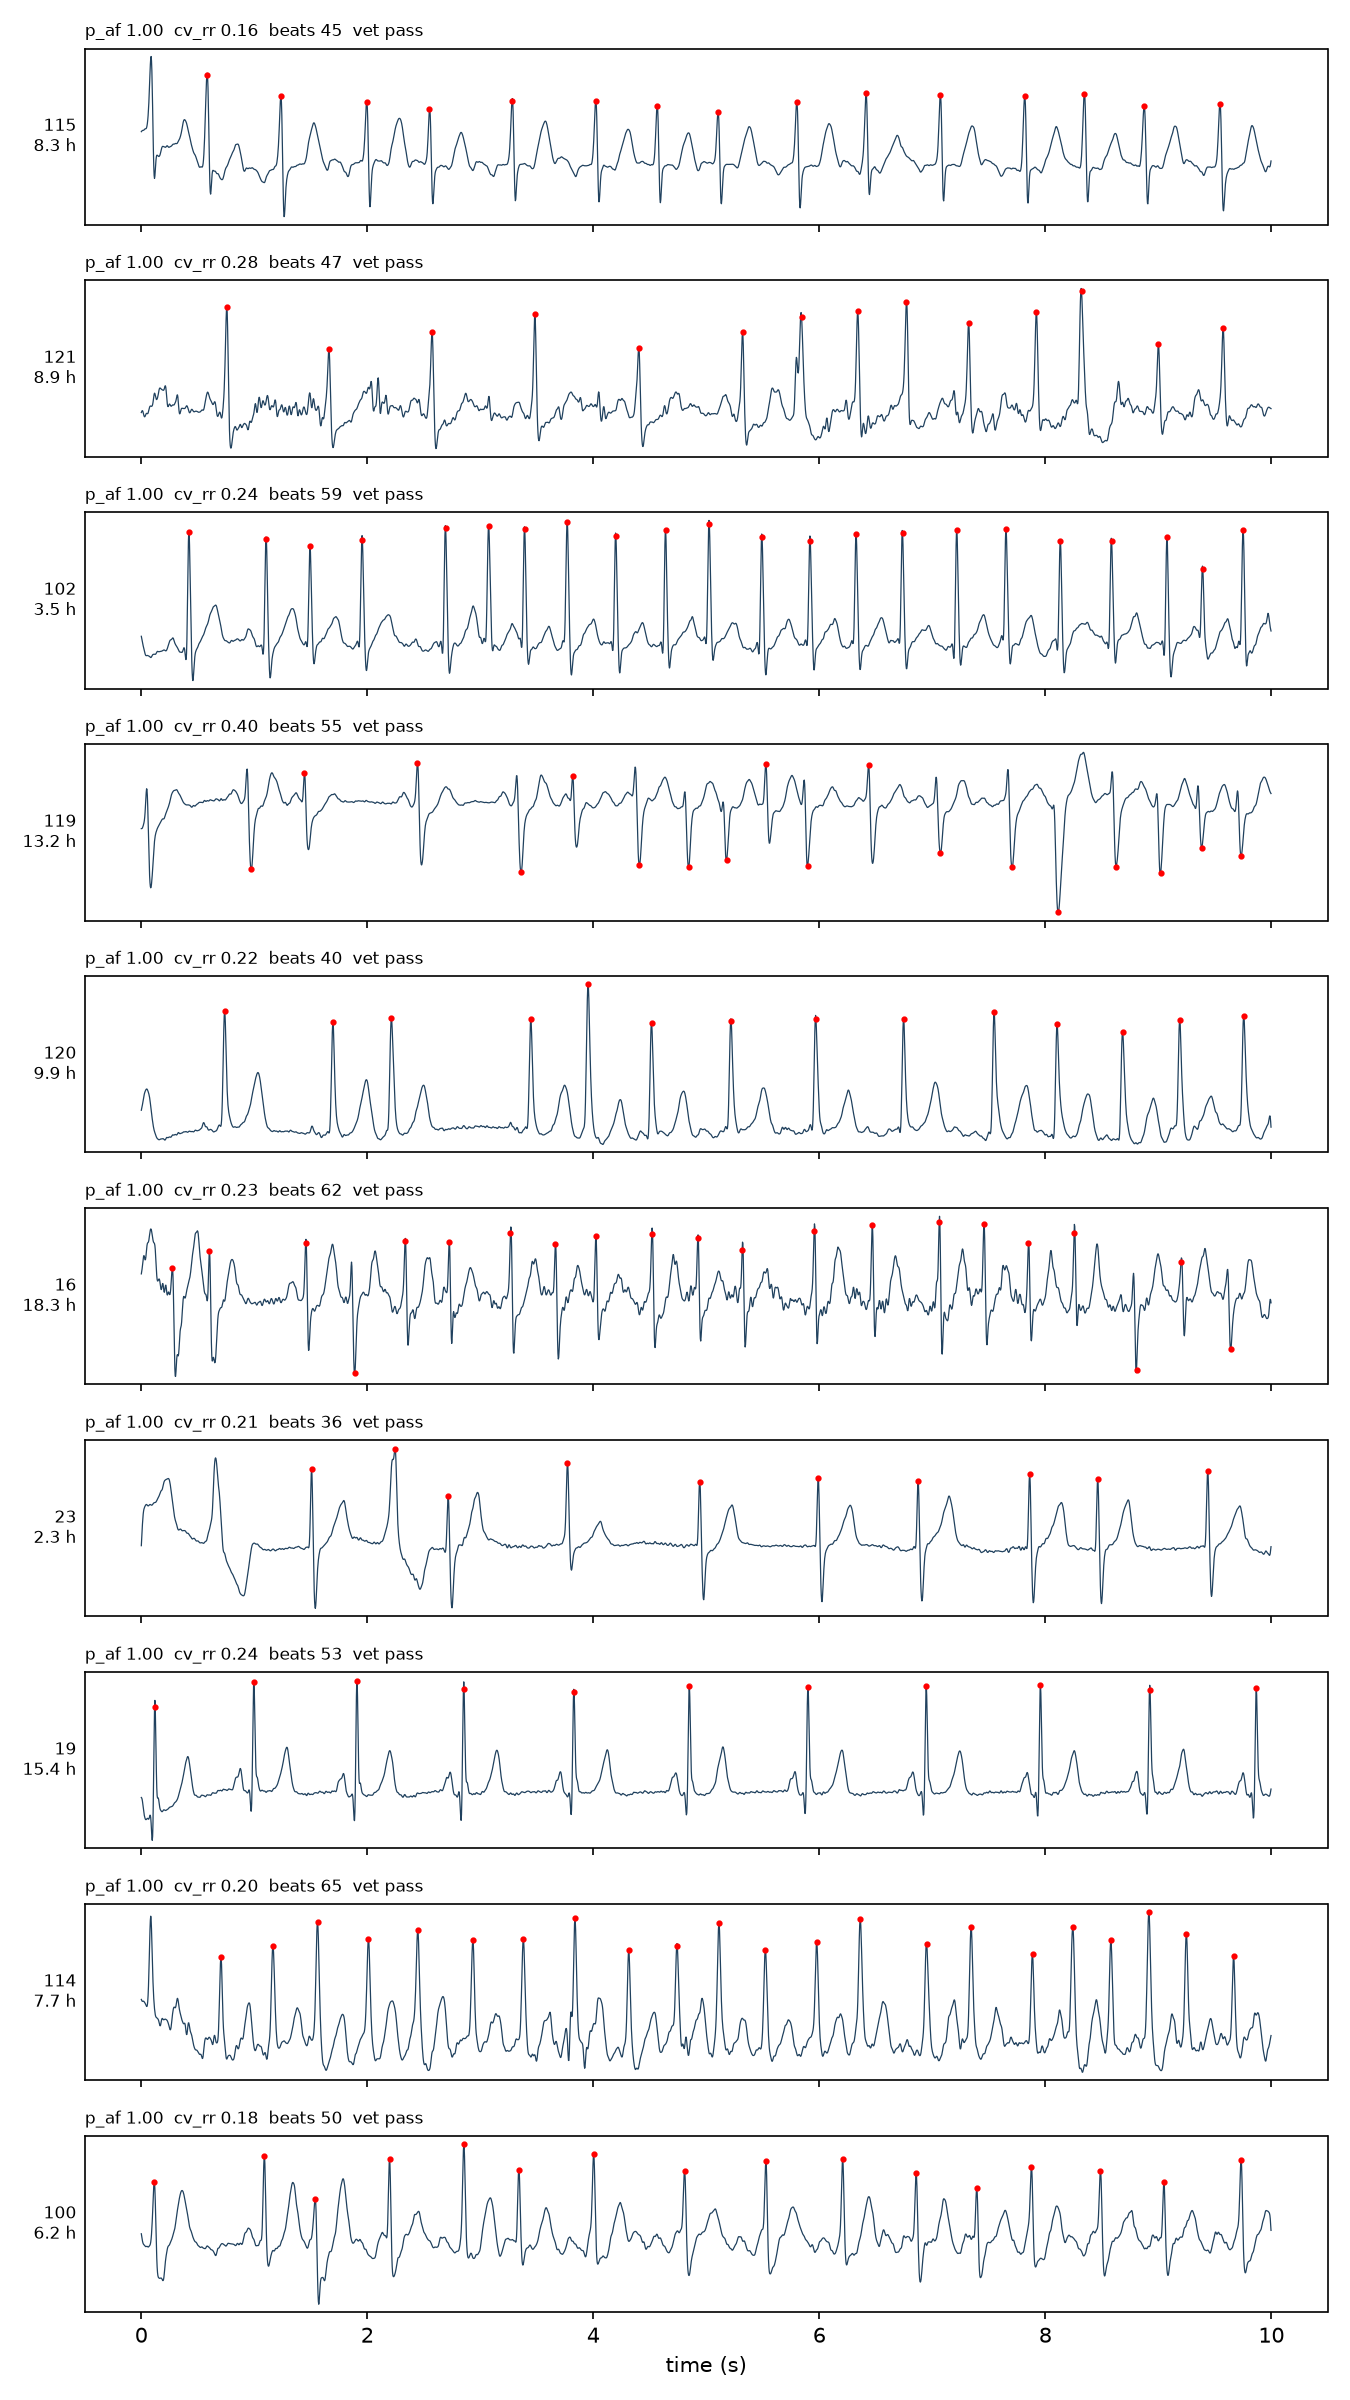
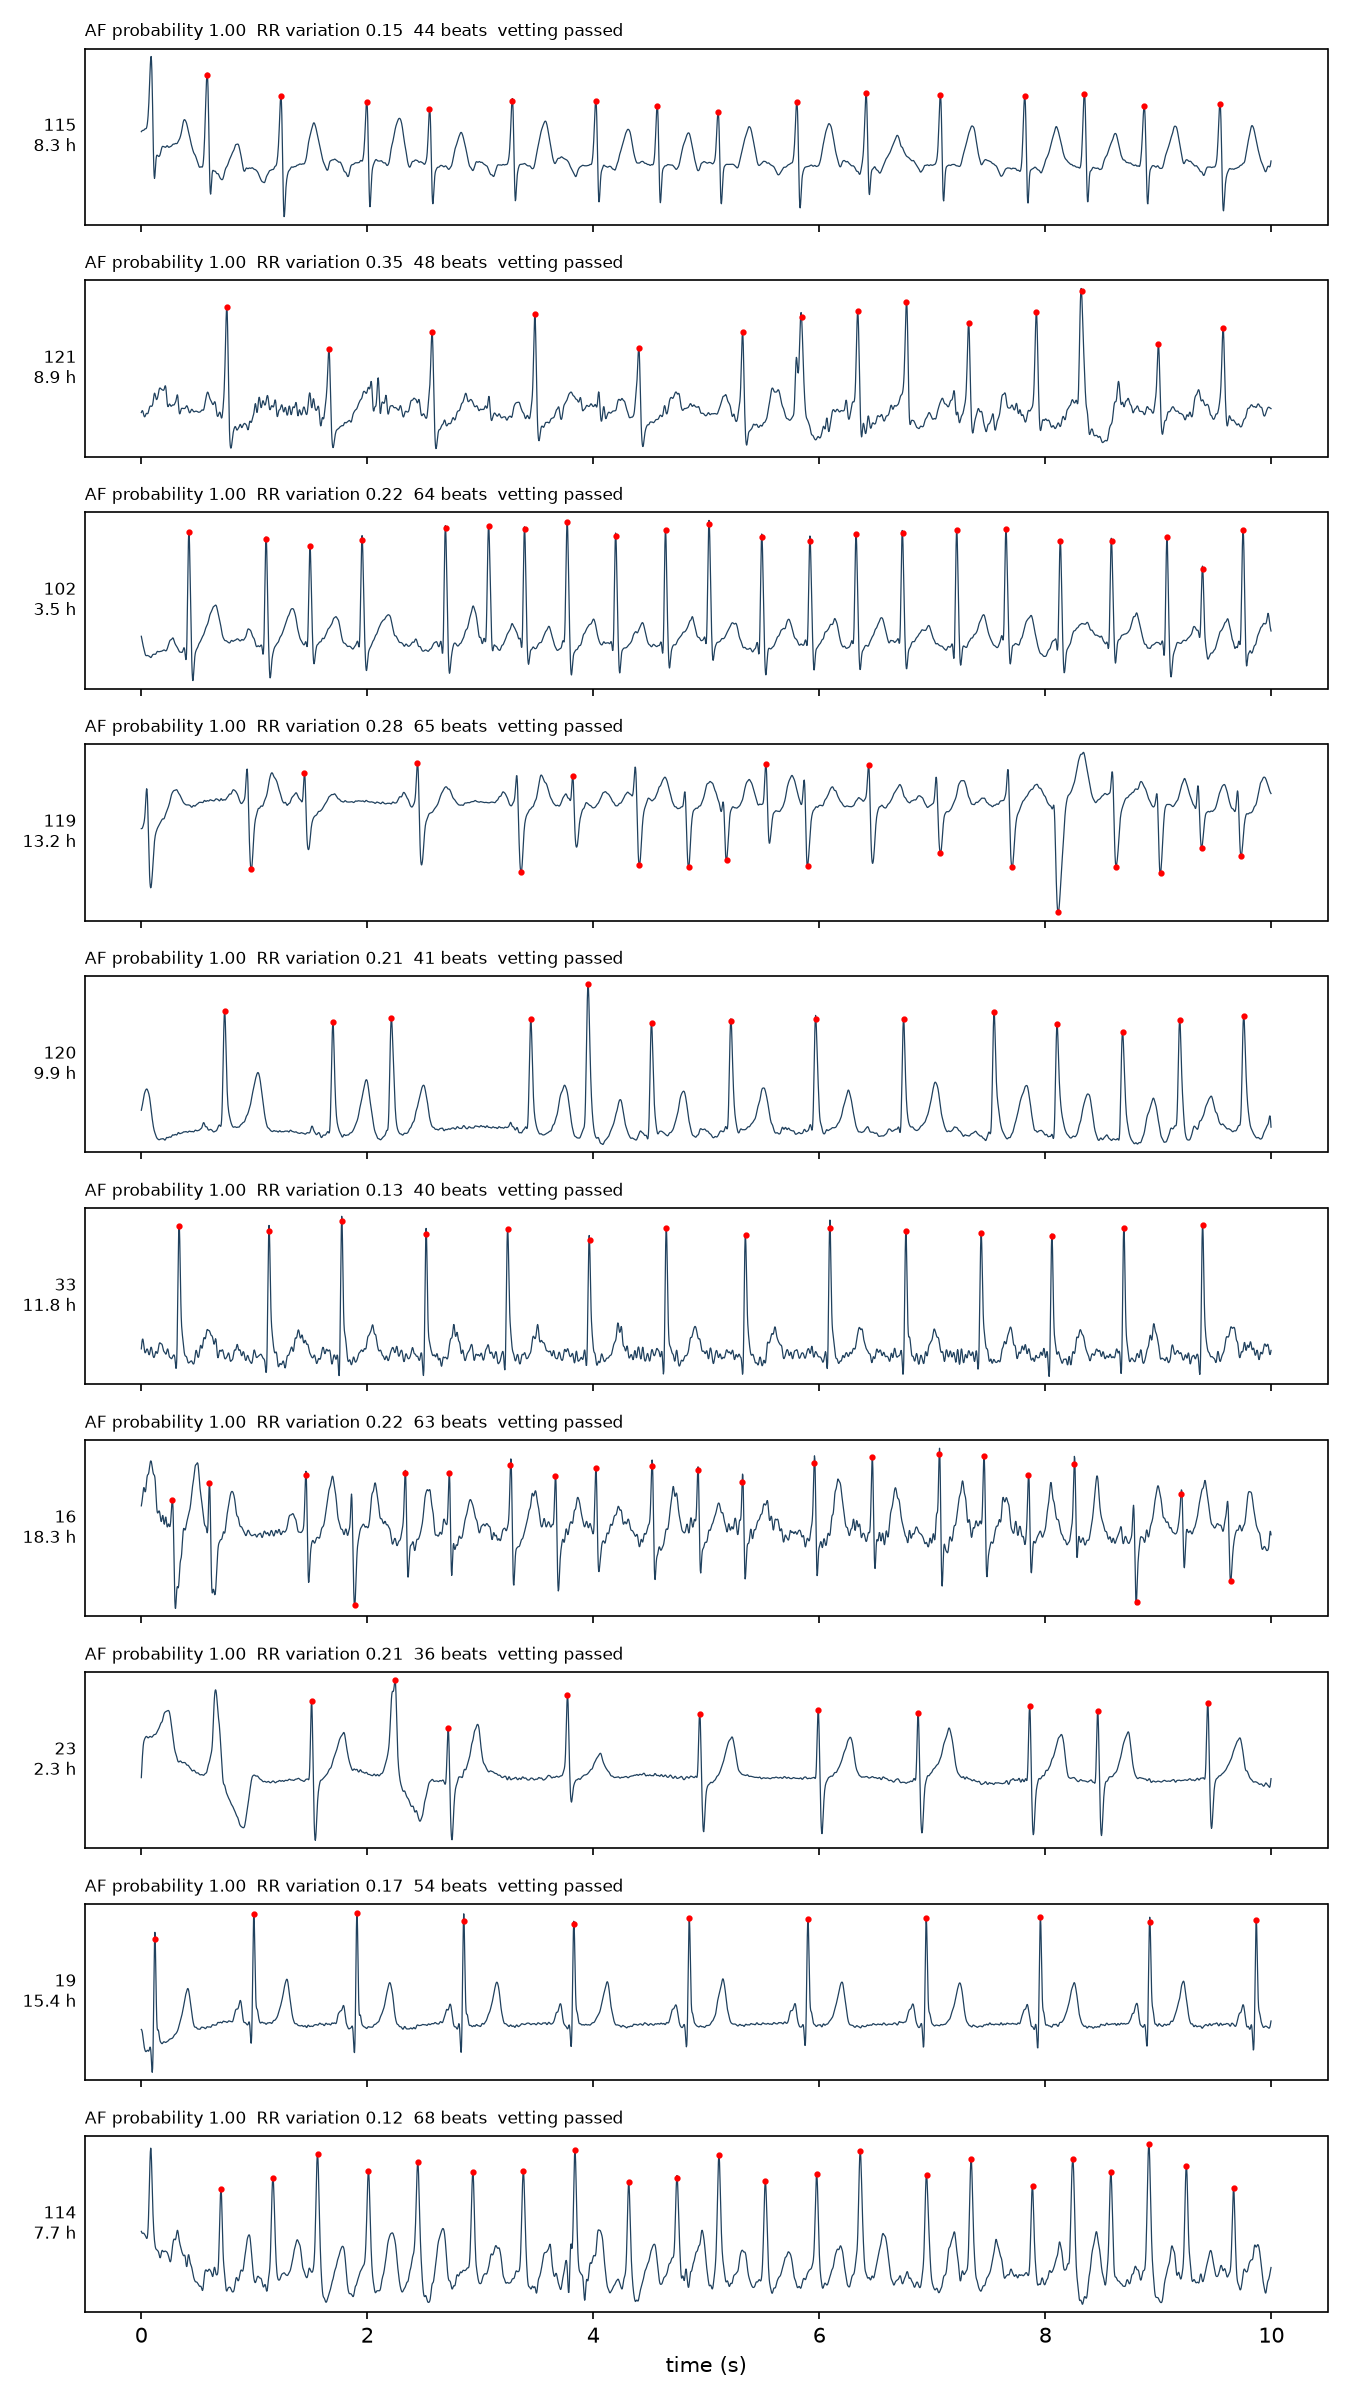
add rr-feature baseline and rework docs from cold review
Logistic regression over the pipeline's own vetting features scores 0.547
under the identical protocol, anchoring the network's 0.827. Screening
results become a table with refreshed post-fix numbers, the vetting
threshold is justified by sampled CV(RR) distributions instead of one
example pair, and the neutralized amplitude augmentation is documented.

diff --git a/scripts/baseline_rr.py b/scripts/baseline_rr.py
@@ -1,0 +1,73 @@
+"""RR-interval and signal-quality baseline: logistic regression under the CV protocol.
+
+Anchors the CNN score by measuring how far the hand-built screening features
+(beat rate, RR irregularity, spectral quality) get on the same task, same
+folds, same metric.
+"""
+
+import time
+from pathlib import Path
+
+import numpy as np
+import pandas as pd
+from sklearn.linear_model import LogisticRegression
+from sklearn.model_selection import StratifiedKFold
+from sklearn.pipeline import make_pipeline
+from sklearn.preprocessing import StandardScaler
+
+from heartscreen.data import CachedDataset
+from heartscreen.evaluate import challenge_f1
+from heartscreen.preprocessing import FS
+from heartscreen.screening import rr_metrics, window_sqi
+
+CACHE = Path("results/baseline/features.csv")
+
+
+def extract_features(dataset: CachedDataset) -> pd.DataFrame:
+    rows = []
+    for i in range(len(dataset)):
+        signal = dataset.signal(i)
+        rr = rr_metrics(signal)
+        sqi = window_sqi(signal)
+        rows.append(
+            {
+                "beats_per_s": rr["beats"] / (len(signal) / FS),
+                "cv_rr": rr["cv_rr"],
+                "rmssd_ms": rr["rmssd_ms"],
+                "flatline_frac": sqi["flatline_frac"],
+                "qrs_band_ratio": sqi["qrs_band_ratio"],
+                "label": int(dataset.labels[i]),
+            }
+        )
+    return pd.DataFrame(rows)
+
+
+def main() -> None:
+    dataset = CachedDataset("data/cache/cinc2017.npz")
+    if CACHE.exists():
+        features = pd.read_csv(CACHE)
+    else:
+        start = time.perf_counter()
+        features = extract_features(dataset)
+        CACHE.parent.mkdir(parents=True, exist_ok=True)
+        features.to_csv(CACHE, index=False)
+        print(f"features extracted in {time.perf_counter() - start:.0f}s")
+
+    x = features.drop(columns="label").fillna(0.0).to_numpy()
+    y = features["label"].to_numpy()
+    model = make_pipeline(
+        StandardScaler(),
+        LogisticRegression(class_weight="balanced", max_iter=1000, random_state=42),
+    )
+    skf = StratifiedKFold(n_splits=5, shuffle=True, random_state=42)
+    scores = []
+    for train, val in skf.split(x, y):
+        model.fit(x[train], y[train])
+        score, per_class = challenge_f1(y[val], model.predict(x[val]))
+        scores.append(score)
+        print(f"fold: {score:.4f}  " + "  ".join(f"{k} {v:.3f}" for k, v in per_class.items()))
+    print(f"baseline mean challenge F1 {np.mean(scores):.4f} +/- {np.std(scores):.4f}")
+
+
+if __name__ == "__main__":
+    main()

diff --git a/README.md b/README.md
@@ -8,11 +8,11 @@ pipeline that ranks candidate AF episodes in multi-hour recordings.
 
 Atrial fibrillation is intermittent and often asymptomatic, so it is missed by
 spot checks and found by long-duration monitoring, which produces far more
-signal than anyone reads by hand. HeartScreen trains a compact classifier
-(821k parameters) on labeled 30 s single-lead records, then uses it as the
-cheap first tier of a screening stack: sliding-window inference over long
-recordings, followed by signal-quality and RR-irregularity vetting of
-candidates via R-peak detection, yielding a ranked list a human can review.
+signal than anyone reads by hand. HeartScreen trains a compact
+821k-parameter classifier on labeled 30 s single-lead records and makes it
+the cheap first tier of a screening stack. The model scans a long recording
+window by window, R-peak and signal-quality checks vet whatever it flags,
+and the survivors reach a human as a ranked candidate list.
 
 ## Results
 
@@ -24,17 +24,29 @@ protocol notes below.
 | Metric | Value |
 |---|---|
 | Mean CV challenge F1 | 0.827 +/- 0.008 |
-| Pooled per-class F1 (N / A / O / ~) | 0.903 / 0.810 / 0.768 / 0.614 |
+| Per-class F1, Normal / AF / Other / Noisy | 0.903 / 0.810 / 0.768 / 0.614 |
+| RR-feature logistic regression baseline | 0.547 +/- 0.022 |
 | Model size | 821,348 parameters |
 | Training throughput (M4 Pro CPU) | 140 windows/s |
 
-Screening the MIT-BIH Long-Term AF Database (84 recordings, 1,961
-recording-hours) runs end to end in 15.5 min on the same CPU (126.7
-recording-hours/min) and agrees with the rhythm annotations at window level
-with sensitivity 0.921, specificity 0.963, and PPV 0.965 across 470,460
-windows, of which 52.7% are annotated AF; PPV in an AF-enriched cohort does
-not transfer to low-prevalence populations. Full tables, figures, and
-reproduction commands: [docs/results.md](docs/results.md).
+For context, the four winning 2017 entries scored 0.83 on the withheld test
+set, a protocol not directly comparable to cross-validation; the baseline row
+shows what the screening pipeline's own hand-built rhythm features achieve
+under the identical protocol. Details in [docs/results.md](docs/results.md).
+
+Screening the MIT-BIH Long-Term AF Database with the deployment model, on
+the same CPU:
+
+| Metric | Value |
+|---|---|
+| Recording-hours screened | 1,961 (84 Holter recordings) |
+| End-to-end wall clock | 15.3 min (127.8 recording-hours/min) |
+| Window-level sensitivity / specificity | 0.921 / 0.963 |
+| Windows scored | 470,460 (52.7% annotated AF) |
+
+PPV is 0.965, but the cohort is AF-enriched, so it does not transfer to
+low-prevalence populations. Full tables, figures, and reproduction commands:
+[docs/results.md](docs/results.md).
 
 Top-ranked candidate episodes from the screening run, with detected R-peaks
 and per-episode vetting evidence:
@@ -86,9 +98,9 @@ docs/results.md as context and are not directly comparable. Each fold's
 final-epoch model is evaluated, with no early stopping or model selection on
 the validation fold. Folds split records; patient identities are not
 published for this dataset, so patient-level splitting is not possible.
-Screening agreement on LTAF is measured under a real domain shift (128 Hz
-Holter telemetry resampled to 300 Hz) and the vetting thresholds are ranking
-heuristics, not diagnostic rules.
+Screening agreement on LTAF is measured across an acquisition mismatch the
+model never saw in training (128 Hz Holter telemetry resampled to 300 Hz)
+and the vetting thresholds are ranking heuristics, not diagnostic rules.
 
 HeartScreen is a research prototype and is not a medical device.
 

diff --git a/docs/design.md b/docs/design.md
@@ -67,10 +67,14 @@ AdamW with a cosine schedule (2 warmup epochs) and weight decay 1e-4, batch
 size 64. The loss is cross-entropy weighted by inverse class frequency, scaled
 so the mean weight over training samples is 1 (weights 0.42 / 2.81 / 0.88 /
 7.64 for N / A / O / ~ at the observed distribution); without it the 8.9% AF
-class is underserved by an optimizer that can buy accuracy cheaply on Normal. Augmentation: random crop,
-amplitude scaling in [0.8, 1.2], and random polarity flip, the last because
-the recording device is held in either hand and the training set genuinely
-contains inverted records.
+class is underserved by an optimizer that can buy accuracy cheaply on Normal.
+
+Augmentation: random crop, amplitude scaling in [0.8, 1.2], and random
+polarity flip, the last because the recording device is held in either hand
+and the training set genuinely contains inverted records. The scale term is
+mostly absorbed downstream, since the masked normalization is scale invariant
+per sample; it survives only through convolution biases, and it stays in the
+recipe because the reported runs used it.
 
 Train and eval steps are jit-compiled. The eval path pads the final partial
 batch to the training batch shape so XLA compiles exactly one program per
@@ -106,17 +110,19 @@ R-peak detection runs only on one representative window per candidate episode.
 Vetting evidence per candidate: flatline fraction and 5 to 25 Hz spectral power
 ratio (signal quality), beat count plausibility, and RR irregularity
 (coefficient of variation of RR, RMSSD). A candidate passes vetting when the
-signal is usable and CV(RR) is at least 0.10; on CinC records this separates
-AF (measured example: 0.19) from sinus rhythm (0.04) by a wide margin. The
-thresholds are screening heuristics meant to rank and annotate candidates for
-human review, not diagnostic rules.
+signal is usable and CV(RR) is at least 0.10. Across 150 sampled records per
+class from CinC 2017, median CV(RR) is 0.207 for AF (interquartile range
+0.156 to 0.280) versus 0.059 for Normal (0.027 to 0.151); the 0.10 gate sits
+between the medians, but the interquartile ranges overlap, so it is a coarse
+filter that trades some AF recall for fewer false alarms, not a classifier.
+The thresholds are screening heuristics meant to rank and annotate candidates
+for human review, not diagnostic rules.
 
 Where rhythm annotations exist, window-level agreement is reported: a window
 counts as AF truth when at least half of it is annotated AFIB or AFL, and as an
 AF prediction when the argmax class is A. The classifier is trained on 30 s
-AliveCor snippets and applied to Holter telemetry resampled from 128 Hz, a real
-domain shift; agreement numbers are reported under that caveat rather than
-tuned away.
+AliveCor snippets and applied to Holter telemetry resampled from 128 Hz, so
+the agreement absorbs a domain gap rather than tuning it away.
 
 The deployment model used for screening is trained on all 8,528 records with
 the CV-validated recipe; its expected quality is the CV estimate.

diff --git a/docs/results.md b/docs/results.md
@@ -42,6 +42,19 @@ its errors are mostly absorbed into Normal; the class has only 279 records,
 so its F1 is high-variance and it is excluded from the challenge score by
 definition.
 
+## Baseline
+
+A logistic regression over the screening pipeline's own hand-built features
+(XQRS beat rate, CV(RR), RMSSD, flatline fraction, 5 to 25 Hz power ratio)
+under the identical folds and metric scores 0.547 +/- 0.022; mean per-class
+F1 is 0.82 / 0.42 / 0.40 / 0.34 for N / A / O / ~. Rhythm-irregularity
+features alone reach about half the network's AF F1, so most of the headline
+gap of 0.28 comes from learned morphology.
+
+```
+uv run python scripts/baseline_rr.py
+```
+
 ## Dataset
 
 | Class | Records | Share |
@@ -81,24 +94,24 @@ uv run python -m heartscreen.screening
 | Metric | Value |
 |---|---|
 | Recording-hours screened | 1,961 (84 records) |
-| End-to-end wall clock | 15.5 min (126.7 recording-hours/min) |
+| End-to-end wall clock | 15.3 min (127.8 recording-hours/min) |
 | Candidate episodes | 6,803 |
-| Candidates passing vetting | 5,842 (85.9%) |
+| Candidates passing vetting | 5,845 (85.9%) |
 | Windows scored against annotations | 470,460 (52.7% annotated AF) |
 | Window-level sensitivity | 0.921 |
 | Window-level specificity | 0.963 |
 | Window-level PPV | 0.965 |
-| Vetted candidates majority-AF by annotation | 75.6% |
-| Vetted candidates overlapping any annotated AF | 78.1% |
+| Vetted candidates majority-AF by annotation | 75.7% |
+| Vetted candidates overlapping any annotated AF | 78.3% |
 
 Window-level truth is at least half the window annotated AFIB or AFL; a
-window predicts AF when its argmax class is A. Three caveats frame these
-numbers. LTAF is an AF-enriched cohort (52.7% of scored windows are AF), so
-the PPV does not transfer to low-prevalence screening populations. Adjacent
-windows overlap by 15 s, so the 470,460 window scores are correlated and the
-effective sample size is smaller. And the classifier was trained on 300 Hz
-AliveCor snippets and applied to resampled 128 Hz Holter telemetry, a real
-domain shift the numbers include.
+window predicts AF when its argmax class is A. LTAF is an AF-enriched cohort
+(52.7% of scored windows are AF), so the PPV does not transfer to
+low-prevalence screening populations. Adjacent windows overlap by 15 s,
+which correlates the 470,460 window scores and shrinks the effective sample
+size. The classifier also never saw Holter data in training: it was fit on
+300 Hz AliveCor snippets and applied to 128 Hz telemetry resampled up, and
+the numbers absorb that mismatch.
 
 ![top candidates](figures/top_candidates.png)
 
